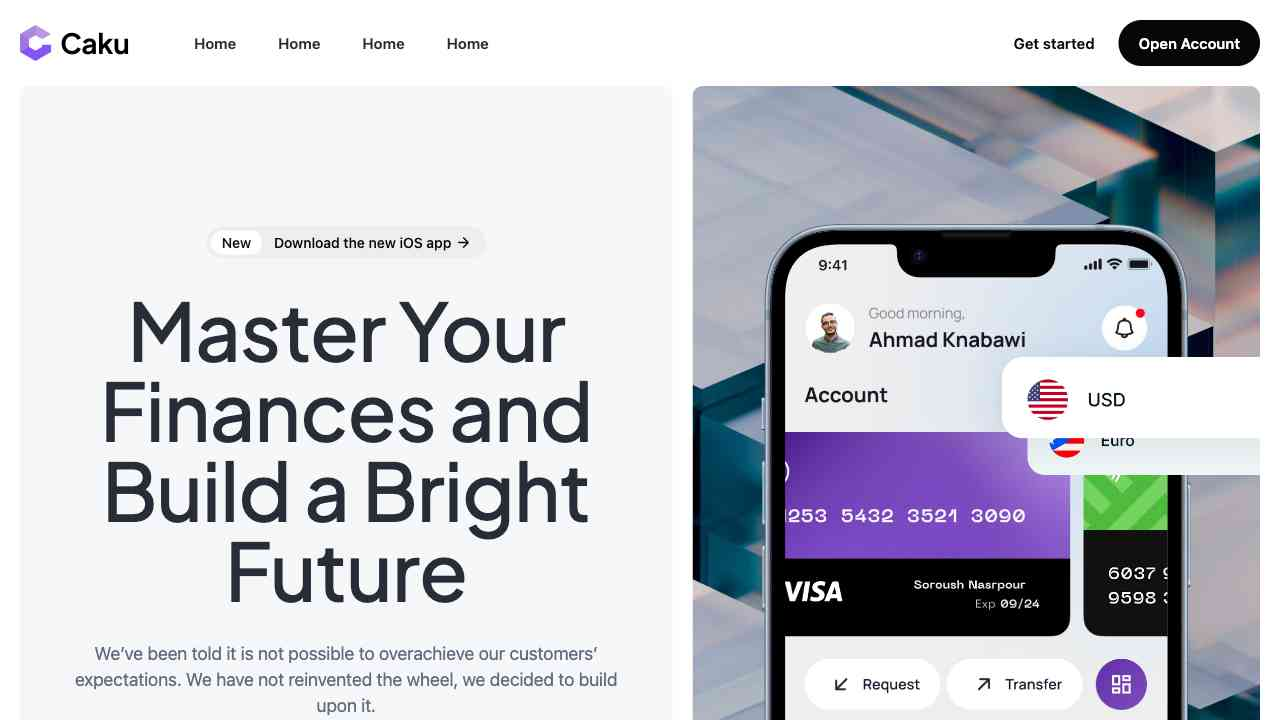
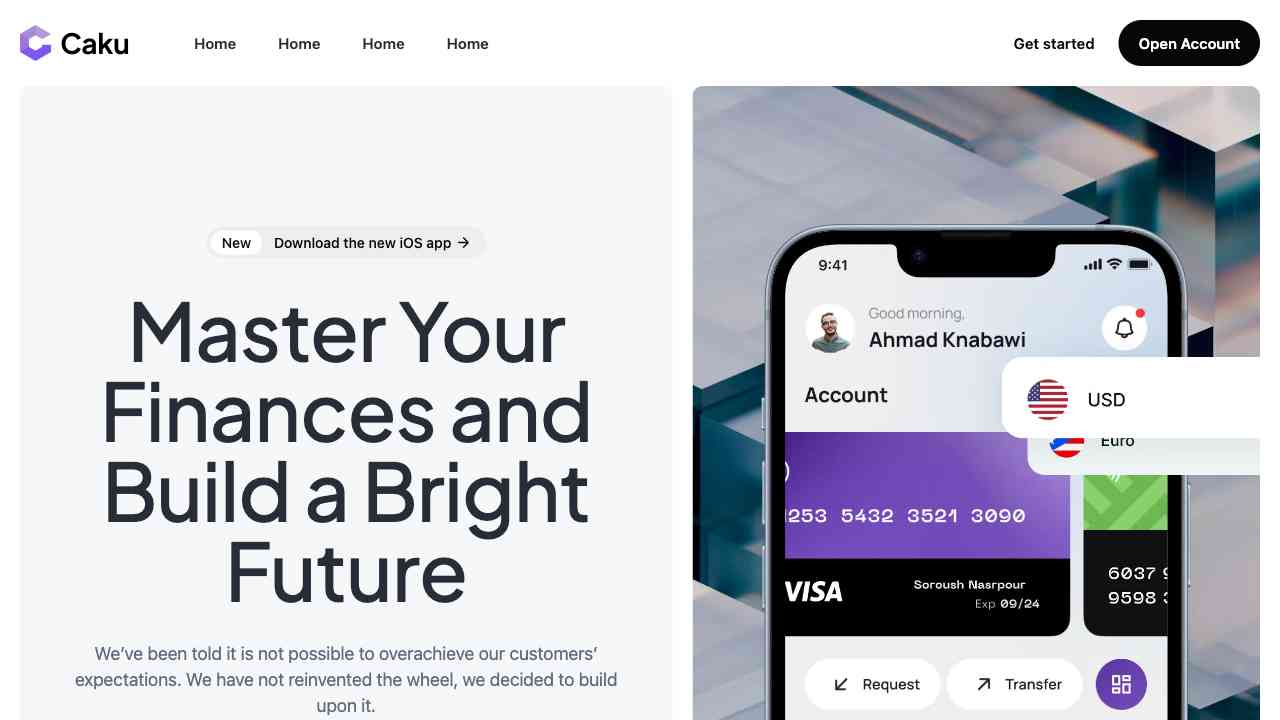
fix: Use compress webp images for asset

diff --git a/frappe/builder/doctype/builder_page/builder_page.py b/frappe/builder/doctype/builder_page/builder_page.py
@@ -796,6 +796,19 @@ def convert_to_webp(image_url: str | None = None, file_doc: Document | None = No
 			return create_new_webp_file_doc(image_url, image, extn)
 		return image_url
 
+	if image_url.startswith("/builder_assets"):
+		image_path = os.path.abspath(frappe.get_app_path("builder", "www", image_url.lstrip("/")))
+		image_path = image_path.replace("_", "-")
+		image_path = image_path.replace("/builder-assets", "/builder_assets")
+
+		image = Image.open(image_path)
+		extn = get_extension(image_path)
+		if can_convert_image(extn):
+			webp_path = image_path.replace(extn, "webp")
+			convert_and_save_image(image, webp_path)
+			return image_url.replace(extn, "webp")
+		return image_url
+
 	if image_url.startswith("http"):
 		return handle_image_from_url(image_url)
 
